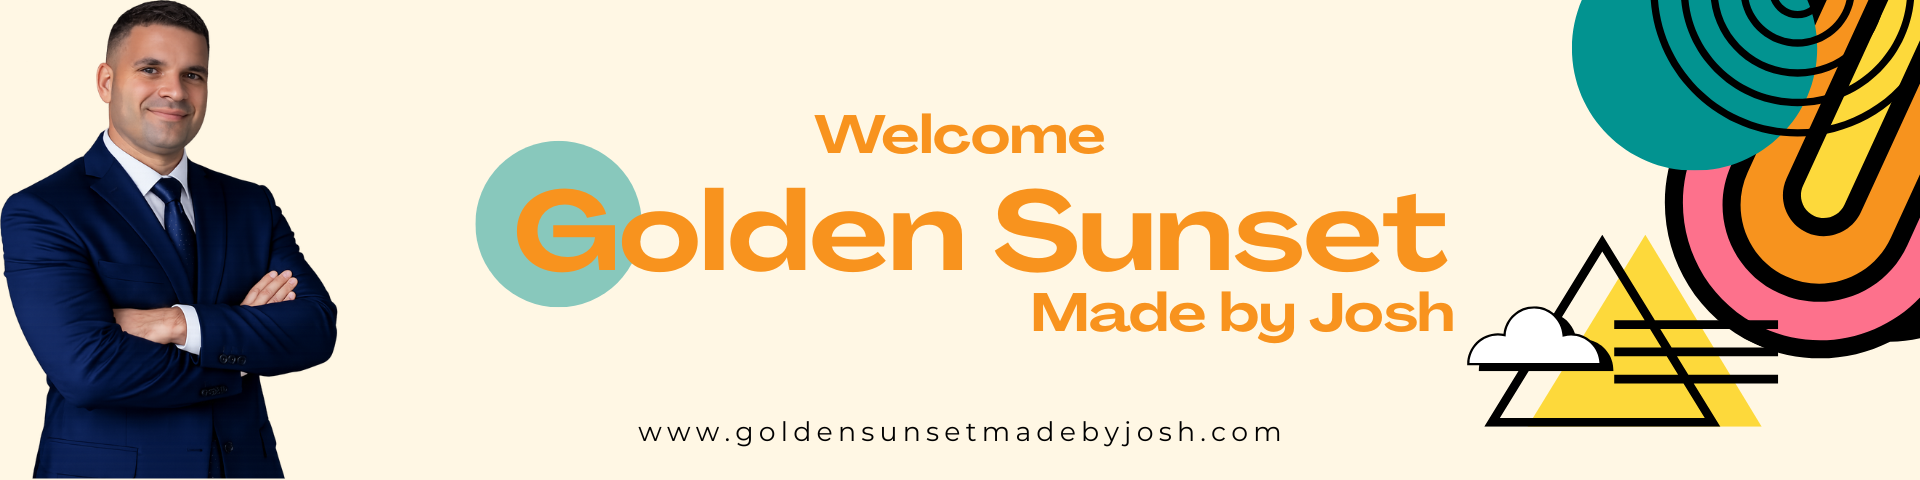
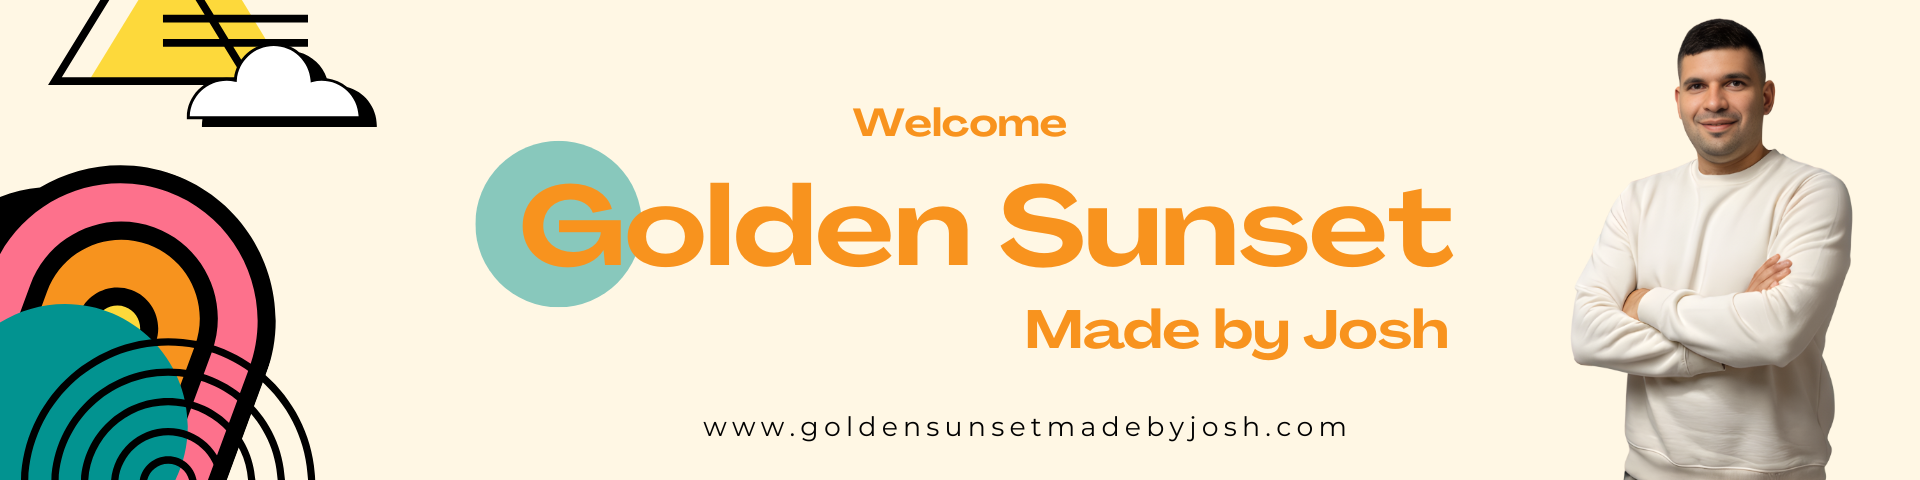
visual changes

diff --git a/src/components/Home/Carousel.js b/src/components/Home/Carousel.js
@@ -28,31 +28,7 @@ const Carousel = () => {
                             }}
                         />
                     </div>
-                    <div className="carousel-item">
-                        <img
-                            className="d-block w-100"
-                            src="img/carousel-2.png"
-                            alt={'img'}
-                            style={{
-                                width: '100%',
-                                height: 'auto',
-                                maxHeight: '480px',
-                                objectFit: 'contain',
-                                backgroundColor: '#f8f9fa' // Opcional: color de fondo para áreas vacías
-                            }}
-                        />
-                    </div>
                 </div>
-                <a className="carousel-control-prev" href="#header-carousel" data-slide="prev">
-                    <div className="btn btn-dark" style={{width: '45px', height: '45px'}}>
-                        <span className="carousel-control-prev-icon mb-n2"></span>
-                    </div>
-                </a>
-                <a className="carousel-control-next" href="#header-carousel" data-slide="next">
-                    <div className="btn btn-dark" style={{width: '45px', height: '45px'}}>
-                        <span className="carousel-control-next-icon mb-n2"></span>
-                    </div>
-                </a>
             </div>
         </>
     );

diff --git a/src/components/Home/CardLeft.js b/src/components/Home/CardLeft.js
@@ -4,7 +4,7 @@ const CardLeft = () => {
         <>
             <div className="col-md-4 pb-4">
                 <div className="position-relative text-center text-md-right text-white mb-2 py-5 px-5">
-                    <img src="img/josh.png" alt=""/>
+                    <img src="img/josh.png" alt="" style={{width: "1000px"}}/>
                     <div className="position-relative" style={{zIndex: '1'}}>
                         <h5 className="text-uppercase mb-3" style={{background: 'linear-gradient(135deg, #CD7F32, #DAA520)',color: 'transparent',WebkitBackgroundClip: 'text',backgroundClip: 'text',display: 'inline-block'}}>Have an idea?</h5>
                         <h1 className="mb-4 font-weight-semi-bold" style={{color:'white'}}>Carlos</h1>

diff --git a/src/components/Stripe/StripePaymentForm.js b/src/components/Stripe/StripePaymentForm.js
@@ -66,7 +66,6 @@ const StripePaymentForm = ({order, onSuccess, onClose}) => {
             const responseData = await response.json().catch(() => ({}));
 
             if (!response.ok) {
-                // El backend ya debería enviar mensajes amigables
                 throw new Error(responseData.detail || `Error ${response.status}`);
             }
 
@@ -76,7 +75,7 @@ const StripePaymentForm = ({order, onSuccess, onClose}) => {
         } catch (err) {
             console.error('Payment error:', err);
 
-            // Mostrar SOLO el mensaje del error, sin detalles técnicos
+
             let errorMessage = err.message || 'Payment failed';
 
             // Limpiar mensajes técnicos si llegaran

diff --git a/src/components/Home/PreFooter.js b/src/components/Home/PreFooter.js
@@ -18,6 +18,7 @@ const PreFooter = () => {
                             style={{ maxHeight: '400px', objectFit: 'contain' }}
                         />
                     </div>
+
                     <CardRight/>
                 </div>
             </div>

diff --git a/src/components/GoldenSunsetApp.js b/src/components/GoldenSunsetApp.js
@@ -27,7 +27,6 @@ useEffect(() => {
             <Navbar/>
             <Carousel/>
             <ProductRow category={category} />
-            <PreFooter/>
             <DesignsGallery/>
             <Footer/>
         </>
